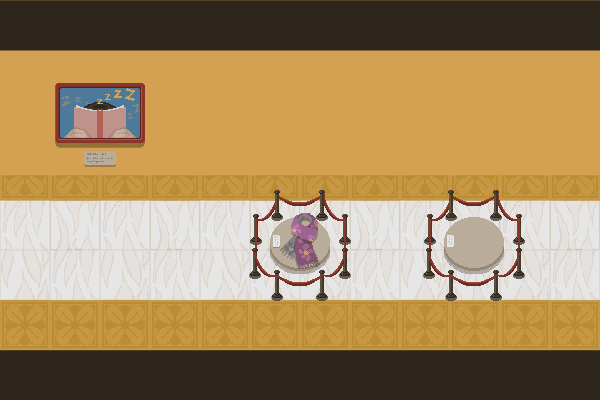
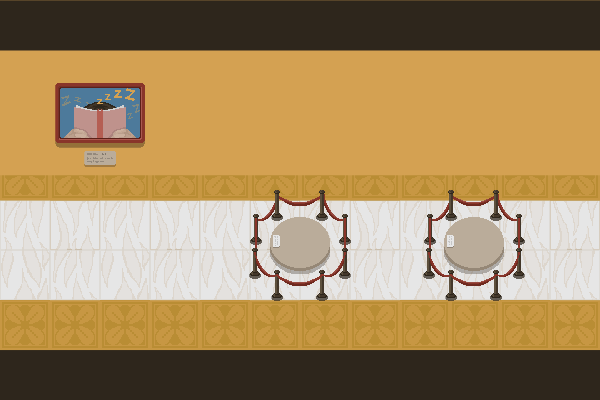
Dec 6th Update 	new file:   assets/overlay/s4_overlay.png 	modified:   assets/scenes/scene4.png 	new file:   assets/scenes/scene4_2.png 	modified:   assets/walls/wall4.png 	modified:   scene4.js 	modified:   sketch.js

Changed region(s): [[0.45, 0.51, 0.54, 0.69]]

diff --git a/scene4.js b/scene4.js
@@ -1,7 +1,11 @@
 /////////////// Scene 4 ///////////////
 function scene4() {
   imageMode(CORNER);
-  image(scenes[4], 0, 0);
+  if (lightOffset > realityTime) {
+    image(reality, 0, 0);
+  } else {
+    image(scenes[4], 0, 0);
+  }
 
   me.display();
   me.checkMovement();
@@ -15,6 +19,8 @@ function scene4() {
     nextScene = true;
     sceneChange();
     me.col = height - me.r;
+    lightOffeset = 0;
+    changeTrigger = false;
   }
 
   textAlign(CORNER);
@@ -42,15 +48,56 @@ function scarfDisplay() {
     (me.r + meSpeed) * 2
   );
   if (touchScarf) {
-    if (!haveScarf) {
-      fill(250);
-      rect(width / 2 - 30, height / 2 + 110, 60, 20);
+    changeTrigger = true;
+    if (lightOffset < realityTime) {
+      fill(0, 100);
+      rect(width / 2 - 105, 135, 215, 50, 3);
+      textSize(9);
+      textFont(boldFont);
+      fill(255);
+      text("A scarf that disappeared", width / 2 - 95, 155);
+      text("in an under table drawer", width / 2 - 95, 170);
     } else {
-      fill(0);
-      rect(width / 2 - 30, height / 2 + 110, 60, 20);
-      me.row = width / 2;
-      me.col = height / 2 - me.r;
+      textSize(20);
+      textFont(boldFont);
+      fill(color("#b98d34"));
+      text(
+        "YOU LOST THAT SCARF",
+        width / 2 - 165 + random(-5, 5),
+        height / 2 + 140 + random(-2, 2)
+      );
     }
   }
-  return touchScarf;
+
+  if (changeTrigger) {
+    lightOffset++;
+  }
+
+  if (lightOffset >= realityTime && lightOffset < realityTime * 1.2) {
+    me.row = width / 2;
+    me.col = height / 2 - 7 - me.r;
+  }
+
+  if (lightOffset > realityTime) {
+    fill(0, 80 + random(-10, 20));
+    rect(0, 0, width, height);
+  }
+
+  // transition
+  if (lightOffset < realityTime) {
+    if (
+      lightOffset >= 0.6 * realityTime &&
+      lightOffset <= 0.8 * realityTime &&
+      lightOffset % 6 == 0
+    ) {
+      fill(0);
+      rect(0, 0, width, height);
+    } else if (lightOffset > 0.8 * realityTime && lightOffset % 3 == 0) {
+      fill(0);
+      rect(0, 0, width, height);
+    } else if (lightOffset < 0.8 * realityTime || lightOffset % 7 >= 3) {
+      imageMode(CORNER);
+      image(s4_overlay, 0, 0);
+    }
+  }
 }

diff --git a/sketch.js b/sketch.js
@@ -39,6 +39,13 @@ let computer;
 // scene 3 default
 let s3_overlay;
 
+// scene 4 default
+let lightOffset = 0;
+let reality;
+let changeTrigger = false;
+let realityTime = 280;
+let s4_overlay;
+
 // scene 5 default
 let hands = [];
 
@@ -96,6 +103,9 @@ function preload() {
     scenes[i] = loadImage("assets/scenes/scene" + i + ".png");
   }
 
+  // load scene 4 V2
+  reality = loadImage("assets/scenes/scene4_2.png");
+
   // load main character
   for (let i = 0; i <= 3; i++) {
     characterDown[i] = loadImage(
@@ -151,6 +161,10 @@ function preload() {
   // scene 3
   // overlay
   s3_overlay = loadImage("assets/overlay/s3_overlay.png");
+
+  // scene 4
+  // overlay
+  s4_overlay = loadImage("assets/overlay/s4_overlay.png");
 }
 
 function setup() {
@@ -282,10 +296,6 @@ function keyPressed() {
   } else if (scene == 2 && counterCheck()) {
     if (keyCode === 13) {
       haveLife = true;
-    }
-  } else if (scene == 4 && scarfDisplay()) {
-    if (keyCode === 13) {
-      haveScarf = true;
     }
   } else if (scene == 7 && extraLifeCheck()) {
     if (keyCode === 13) {
